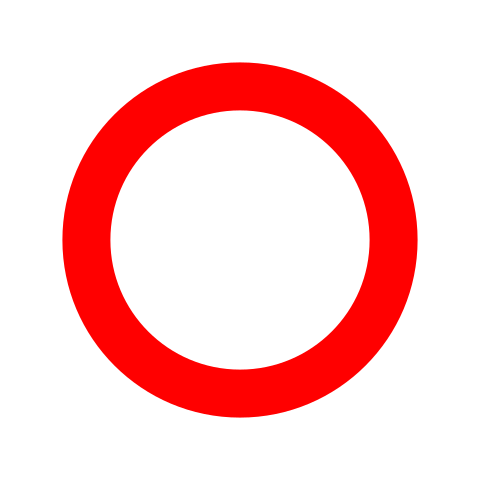
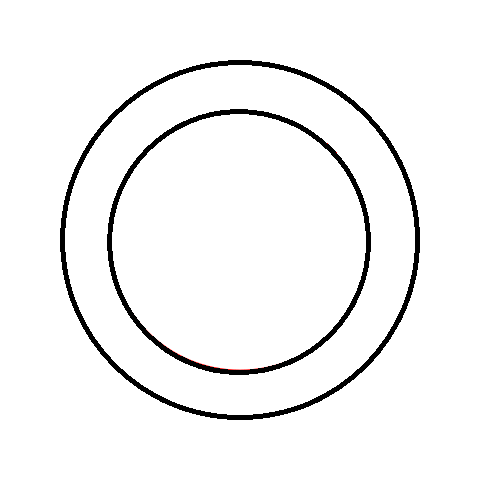
Some moved bag protection, and some color changes

Changed region(s): [[0.125, 0.125, 0.875, 0.875]]

diff --git a/startgame.html b/startgame.html
@@ -5,21 +5,22 @@
     <title>Start Game</title>
     <style>
         .r {
-            background-color: red;
+            background-color: white;
             font-size: 30px;
         }
 
         .rh {
-            color: red;
+            color: black;
         }
 
         .b {
-            background-color: blue;
+            background-color: black;
+            color: white;
             font-size: 30px;
         }
 
         .bh {
-            color: blue;
+            color: black;
         }
 
         .num {
@@ -42,14 +43,14 @@
     <h1>Start Game</h1>
     <div>
         <h3>Which Color is Throwing First?</h3>
-        <input type="button" id="red" value="Red" onclick="red()" class="r">
-        <input type="button" id="blue" value="Blue" onclick="blue()" class="b">
+        <input type="button" id="white" value="White" onclick="white()" class="r">
+        <input type="button" id="black" value="Black" onclick="black()" class="b">
     </div>
     <div>
-        <h3 class="rh">Red Player Name:</h3>
-        <input type="text" id="redname" value="">
-        <h3 class="bh">Blue Player Name:</h3>
-        <input type="text" id="bluename" value="">
+        <h3 class="rh">White Player Name:</h3>
+        <input type="text" id="whitename" value="">
+        <h3 class="bh">Black Player Name:</h3>
+        <input type="text" id="blackname" value="">
     </div>
     <div>
         <h3>What is the Game to?</h3>
@@ -63,14 +64,14 @@
 </body>
 <script>
     var first = "";
-    var rname = "";
+    var wname = "";
     var bname = "";
     var score = "";
     var custim = false;
     function start() {
-        rname=document.getElementById("redname").value;
-        bname=document.getElementById("bluename").value;
-        var data=first+"|"+rname+"|"+bname+"|";
+        wname=document.getElementById("whitename").value;
+        bname=document.getElementById("blackname").value;
+        var data=first+"|"+wname+"|"+bname+"|";
         if(custim==false){
             data+=score;
         }else{
@@ -79,15 +80,15 @@
         localStorage.gameInfo=data;
         location.replace("./playinggame.html");
     }
-    function red() {
-        first = "red";
-        document.getElementById("red").style.backgroundColor = "#00ff00";
-        document.getElementById("blue").style.backgroundColor = "#0000ff";
+    function white() {
+        first = "white";
+        document.getElementById("white").style.backgroundColor = "#00ff00";
+        document.getElementById("black").style.backgroundColor = "#000000";
     }
-    function blue() {
-        first = "blue";
-        document.getElementById("red").style.backgroundColor = "#ff0000";
-        document.getElementById("blue").style.backgroundColor = "#00ff00";
+    function black() {
+        first = "black";
+        document.getElementById("white").style.backgroundColor = "#ffffff";
+        document.getElementById("black").style.backgroundColor = "#00ff00";
     }
     function eleven() {
         score = "11";

diff --git a/bagSensing.html b/bagSensing.html
@@ -2,7 +2,7 @@
 <html>
 
 <body>
-    <input type="button" id="button" onclick="hehe()" value="connect">
+    <input type="button" id="button" onclick="serial()" value="connect">
     <p id="scoreDisplayObject"></p>
     <p id="arrayDisplayObject"></p>
     <script>
@@ -43,7 +43,7 @@
         var row = 0;
         var white = 0;
         var black = 0;
-        async function hehe() {
+        async function serial() {
             const port = await navigator.serial.requestPort();
             await port.open({ baudRate: 9600 });
             while (port.readable) {
@@ -83,17 +83,27 @@
                                 }
                                 //console.log(gaymis);
                                 document.getElementById("arrayDisplayObject").innerText = arrayDisplayString;
+                                var newSensedWhite = false;
+                                var missingSensedWhite = false;
+                                var newSensedBlack = false;
+                                var missingSensedBlack = false;
                                 for (var i = 0; i < 14; i++) {
                                     for (var j = 0; j < 7; j++) {
                                         if (dataArray[i][j] != prevDataArray[i][j]) {
-                                            if (dataArray[i][j] == 1) {
+                                            if (dataArray[i][j] == 1 && !newSensedWhite) {
                                                 white++;
-                                                i=14;
-                                                j=7;
-                                            } else if (dataArray[i][j] == 2) {
+                                                newSensedWhite = true;
+                                            } else if (dataArray[i][j] == 2 && !newSensedBlack) {
                                                 black++;
-                                                i=14;
-                                                j=7;
+                                                newSensedBlack = true;
+                                            } else if (dataArray[i][j] == 0){
+                                                if(prevDataArray[i][j] == 1 && !missingSensedWhite){
+                                                    white--;
+                                                    missingSensedWhite = true;
+                                                } else if (prevDataArray[i][j] == 2 && !missingSensedBlack){
+                                                    black--;
+                                                    missingSensedBlack = true;
+                                                }
                                             }
                                         }
                                     }

diff --git a/playinggame.html b/playinggame.html
@@ -5,13 +5,13 @@
     <title>Playing Game</title>
     <style>
         .rh {
-            color: red;
+            color: black;
             float: left;
             clear: left;
         }
 
         .bh {
-            color: blue;
+            color: black;
             float: left;
         }
 
@@ -42,20 +42,20 @@
         }
 
         .r {
-            color: red;
+            color: black;
             float: left;
             clear: left;
         }
 
         .b {
             float: left;
-            color: blue;
+            color: black;
             padding-left: 150px;
         }
 
         .ra {
-            color: white;
-            background-color: red;
+            color: black;
+            background-color: white;
             float: left;
             clear: left;
             padding-left: 50px;
@@ -65,7 +65,7 @@
         .ba {
             float: left;
             color: white;
-            background-color: blue;
+            background-color: black;
             padding-left: 50px;
             padding-right: 50px;
         }
@@ -75,7 +75,7 @@
 <body>
     <h1>Live Score</h1>
     <h2 class="him" id="firstup"></h2>
-    <img src="red.jpg" alt="Red Circle" width="150" height="150">
+    <img src="red.jpg" alt="White Circle" width="150" height="150">
     <img src="blue.jpg" alt="Blue X" width="100" height="100" class="hee">
     <br>
     <input class="ra" type="button" id="rpt" value="+1" onclick="rp()">
@@ -94,12 +94,12 @@
     document.getElementById("rn").innerText = info[1];
     document.getElementById("bn").innerText = info[2];
     var score = info[3];
-    if (info[0] == "red") {
-        document.getElementById("firstup").innerText = "Red is First Up";
-        document.getElementById("firstup").style.color = "#ff0000";
+    if (info[0] == "white") {
+        document.getElementById("firstup").innerText = "White is First Up";
+      //  document.getElementById("firstup").style.color = "#ff0000";
     } else {
-        document.getElementById("firstup").innerText = "Blue is First Up";
-        document.getElementById("firstup").style.color = "#0000ff";
+        document.getElementById("firstup").innerText = "Black is First Up";
+      //  document.getElementById("firstup").style.color = "#0000ff";
     }
     var rscore = 0;
     var bscore = 0;
@@ -124,7 +124,7 @@
                 localStorage.gh = "~" + f;
             }
             if (rscore == score) {
-                localStorage.go = "red";
+                localStorage.go = "white";
             } else {
                 localStorage.go = "blue";
             }
